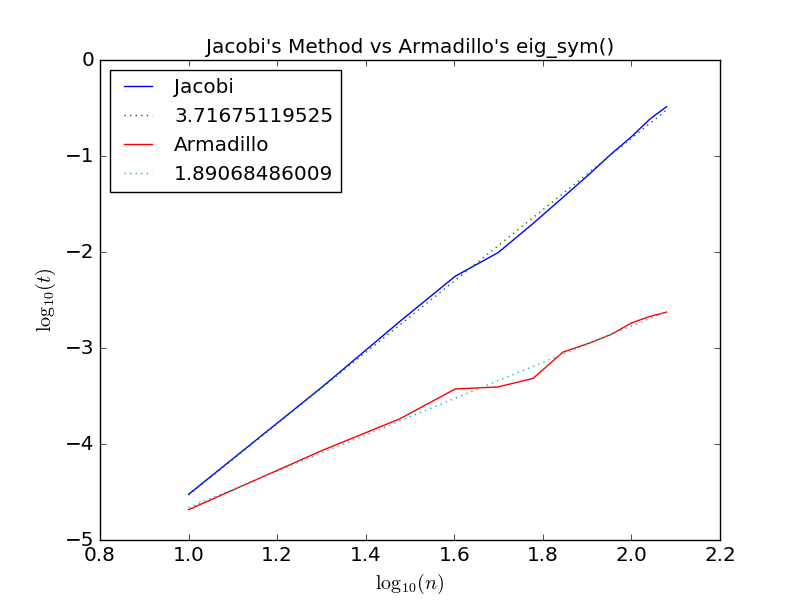
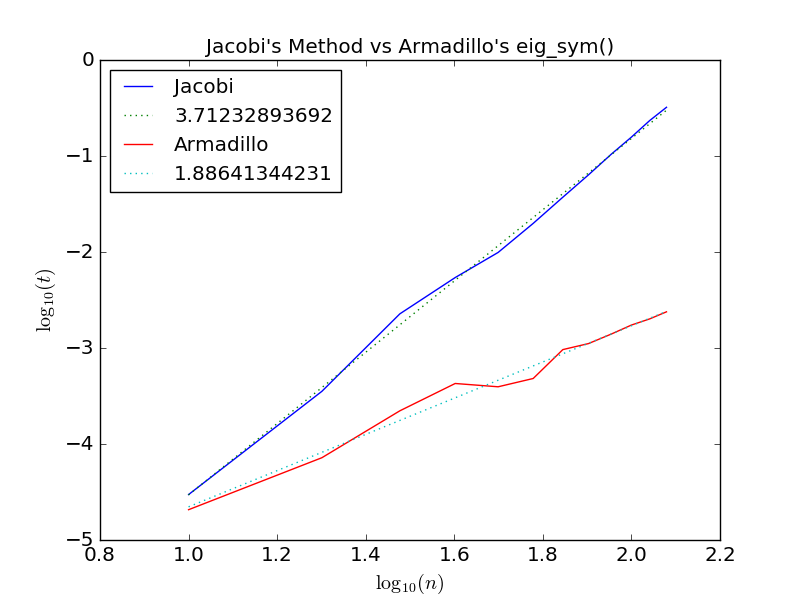
changes

diff --git a/Project2/plot.py b/Project2/plot.py
@@ -35,9 +35,9 @@ if sys.argv[1] == "benchmark":
     fig1 = plt.figure(1)
     title = "Jacobi's Method vs Armadillo's eig_sym()"
 
-    plt.plot(n, t1, label='Jacobi')
+    plt.plot(n, t1, 'o-', label='Jacobi')
     plt.plot(n, fit1(n), ":", label=slope1)
-    plt.plot(n, t2, label='Armadillo')
+    plt.plot(n, t2, 'o-', label='Armadillo')
     plt.plot(n, fit2(n), ":", label=slope2)
 
     plt.gca().set_xlabel('$\\log_{10}(n)$')
@@ -48,10 +48,8 @@ if sys.argv[1] == "benchmark":
 
     fig2 = plt.figure(2)
     title = "Jacobi's Method\n Number of Iterations"
-    plt.plot(n, 2 * n + np.log10(3), label='Min. expected iterations')
-    plt.plot(n, iter, 'o-', label='Actual iterations')
+    plt.plot(n, iter, 'o-', label='Number of iterations')
     plt.plot(n, fit3(n), ":", lw=2, label='Slope: ' + str(slope3))
-    plt.plot(n, 2 * n + np.log10(5), label='Max. expected iterations')
 
     plt.gca().set_xlabel('$\\log_{10}(n)$')
     plt.gca().set_ylabel('$\\log_{10}(N)$')

diff --git a/Project2/jacobi.cpp b/Project2/jacobi.cpp
@@ -36,7 +36,6 @@ void jacobiRotate(mat &A, mat &R, int k, int l, int N)
 // k,l - element to be set to zero
 // N - dimension of matrix
 //----------------------------------------------------------------------------
-//void jacobiRotate(mat &A, int k, int l, int N)
 {
 		double a_kk = A(k, k);
 		double a_ll = A(l, l);
@@ -73,7 +72,6 @@ void jacobiRotate(mat &A, mat &R, int k, int l, int N)
 		return;
 }
 
-
 //============================================================================
 int jacobiMethod(mat A, vec &eigval, mat &eigvec, int N)
 //----------------------------------------------------------------------------
@@ -83,7 +81,6 @@ int jacobiMethod(mat A, vec &eigval, mat &eigvec, int N)
 // eigval - address to put eigenvalues
 // eigvec - address to put eigenvectors
 // N - dimension of matrix
-// showCount = true -> print total number of iterations
 //----------------------------------------------------------------------------
 {
 		int k, l;

diff --git a/Project2/README.md b/Project2/README.md
@@ -1,1 +1,24 @@
 # Project 2
+
+This repository contains all finalized programs in project 2 produced in a collaboration between [Lasse](https://github.com/lasselb87), [Nicolai](https://github.com/nicolossus), and [Kristian](https://github.com/KristianWold).
+
+### Contents
+
+[jacobi.cpp](https://github.com/nicolossus/FYS3150/blob/master/Project2/jacobi.cpp) contains an eigenpair solver which use the Jacobi method, and have the accompanying header file [jacobi.h](https://github.com/nicolossus/FYS3150/blob/master/Project2/jacobi.h)
+
+[makefile](https://github.com/nicolossus/FYS3150/blob/master/Project2/makefile) commands:
+"make bucklingBeam"
+"make benchmark"
+
+[quantumDot.cpp] is used to calculate the four lowest-lying energy states for electrons in a harmonic oscillator well, using Jacobi's method of diagonalization of a matrix. To compile, type "make quantumDot" into the commandline. Run then ./quantumDot.o to see what arguments to give.
+
+[eigenvectors.cpp] is used to calculate the wavefunctions of the interacting and non-interacting case of two electrons for a given frequency. To compile, type "make eigenvectors". Run then ./quantumDot.o to see what arguments to give.
+
+[test.cpp] runs three unit-test checking that the method is correctly implemented. Type "make test" to run it.
+
+[benchmark.cpp] checks the performance of Jacobi's method and Armadillo's eig_sym(). Type "make benchmark" to run it. This produces
+two plots. The first is a log-log plot of CPU-time vs dimmension for the two methods. The second produces a log-log plot of the number of iterations Jacobi's method needs to perform.
+
+[plot.py] visualizes the data, and is called by the Makefile.
+
+All data produced in this project can be found in the [Results folder](https://github.com/nicolossus/FYS3150/tree/master/Project1/Results)ENDRE!!!.
